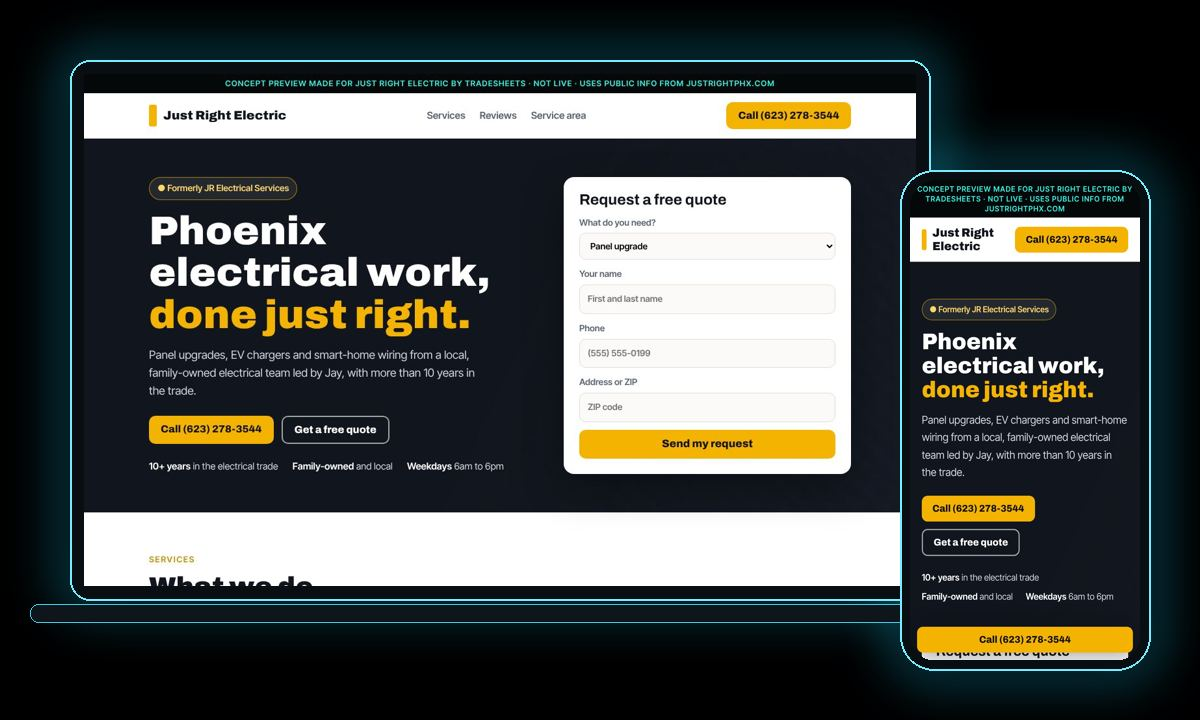
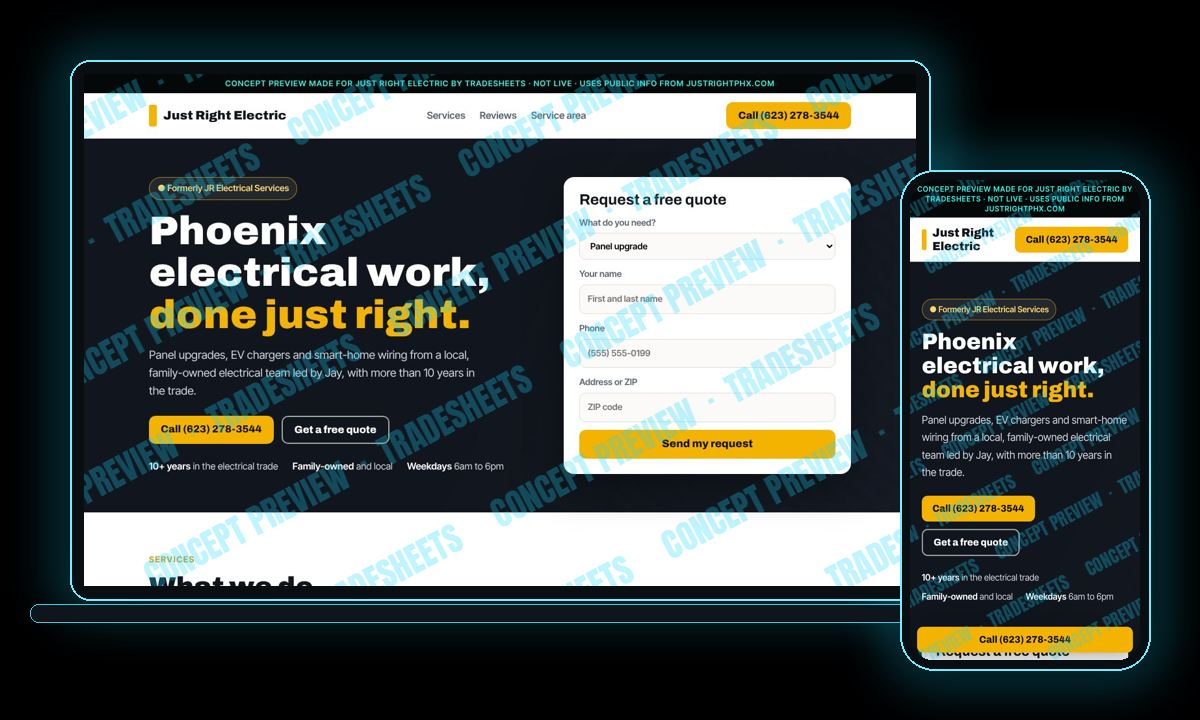
TradeSheets web: watermark previews, no downloads, keep preview sites out of the public repo
Claude-Session: https://claude.ai/code/session_01SsUek2LVS4AqK9q8U6FWSe

diff --git a/business/scripts/render_email.py b/business/scripts/render_email.py
@@ -89,7 +89,7 @@ def render(slug, to_override=None, note=None):
     greeting = p.get("owner_first") or f"{company} team"
     yes = mailto(f"YES - make my site live ({company})")
     no = mailto(f"NO - not interested ({company})")
-    attach = next(x.name for x in d.glob("*-homepage-concept.jpg"))
+    attach = ""
     noun = TRADE[p["trade"]]["noun"]
     subject = f"I built {company} a new website (preview inside)"
     banner = f'<tr><td style="background:#0b3a46;color:#bff3ff;font-size:13px;padding:10px 24px;">{e(note)}</td></tr>' if note else ""
@@ -106,12 +106,11 @@ def render(slug, to_override=None, note=None):
 <tr><td style="padding:14px 22px;">{demo_block(p)}</td></tr>
 <tr><td style="padding:6px 22px 4px;color:#8fb5c2;font-size:13px;text-align:center;">&#128247; And here's how it looks on a laptop and a phone:</td></tr>
 <tr><td style="padding:6px 22px 8px;"><a href="{e(yes)}"><img src="{RAW}/webdev/previews/{slug}/email.jpg" width="556" alt="{e(company)} new website on laptop and phone" style="display:block;width:100%;max-width:556px;height:auto;border:0;border-radius:12px;"></a></td></tr>
-<tr><td style="padding:4px 28px 0;color:#8fb5c2;font-size:13px;text-align:center;">&#128206; The full page is attached: <span style="color:{CYAN};">{e(attach)}</span></td></tr>
 <tr><td style="padding:22px 28px 6px;color:#e6f7fb;font-size:15px;line-height:24px;">
 <table role="presentation" width="100%" cellpadding="0" cellspacing="0">
-<tr><td style="padding:5px 0;"><span style="color:{CYAN};">&#9654;</span>&nbsp; A call button pinned to every phone screen</td></tr>
-<tr><td style="padding:5px 0;"><span style="color:{CYAN};">&#9654;</span>&nbsp; A quote form that lands straight in your inbox</td></tr>
-<tr><td style="padding:5px 0;"><span style="color:{CYAN};">&#9654;</span>&nbsp; Set up for local Google searches like "{noun} near me" in {e(p["city"])}</td></tr>
+<tr><td style="padding:5px 0;color:#e6f7fb;font-size:15px;line-height:24px;font-family:Arial,Helvetica,sans-serif;"><span style="color:{CYAN};">&#9654;</span>&nbsp; A call button pinned to every phone screen</td></tr>
+<tr><td style="padding:5px 0;color:#e6f7fb;font-size:15px;line-height:24px;font-family:Arial,Helvetica,sans-serif;"><span style="color:{CYAN};">&#9654;</span>&nbsp; A quote form that lands straight in your inbox</td></tr>
+<tr><td style="padding:5px 0;color:#e6f7fb;font-size:15px;line-height:24px;font-family:Arial,Helvetica,sans-serif;"><span style="color:{CYAN};">&#9654;</span>&nbsp; Set up for local Google searches like "{noun} near me" in {e(p["city"])}</td></tr>
 </table></td></tr>
 <tr><td style="padding:16px 22px;">
 <table role="presentation" width="100%" cellpadding="0" cellspacing="0" style="background:#03171d;border:1px solid {CYAN};border-radius:14px;">
@@ -126,7 +125,7 @@ def render(slug, to_override=None, note=None):
 </td></tr></table></td></tr>
 <tr><td style="padding:10px 28px 24px;color:#e6f7fb;font-size:15px;line-height:24px;">
 <p style="margin:0 0 12px;">Viktor Ilic<br><span style="color:{CYAN};">TradeSheets</span> &middot; websites for the trades</p>
-<p style="margin:0;font-size:14px;color:#9fc3cd;"><b style="color:#e6f7fb;">P.S.</b> The design is yours to keep either way. If someone else handles your website, feel free to forward this to them.</p>
+<p style="margin:0;font-size:14px;color:#9fc3cd;"><b style="color:#e6f7fb;">P.S.</b> I only take 5 founding clients at $299. Reply YES today and one of them is yours.</p>
 </td></tr>
 <tr><td style="padding:14px 28px;background:#05090b;color:#5f7d86;font-size:12px;line-height:18px;">TradeSheets &middot; {POSTAL}<br>You're getting this because {e(company)} lists this address on its website. Tap "No thanks" or reply "no" and you'll never hear from me again.</td></tr>
 </table></td></tr></table>"""
@@ -134,7 +133,7 @@ def render(slug, to_override=None, note=None):
 
 {p["personalization"]}
 
-So instead of a sales pitch, I built {company} a new homepage. The full page is attached ({attach}).
+So instead of a sales pitch, I built {company} a new homepage. Open this email in HTML view (most email apps do this automatically) to see it.
 
 What's in it:
 - A call button pinned to every phone screen
@@ -148,13 +147,13 @@ Reply YES and I'll make it live. Reply NO and I won't email again.
 Viktor Ilic
 TradeSheets, websites for the trades
 
-P.S. The design is yours to keep either way.
+P.S. I only take 5 founding clients at $299. Reply YES today and one of them is yours.
 
 TradeSheets, {POSTAL}
 You're getting this because {company} lists this address on its website."""
     (d / "email.html").write_text(body)
     (d / "email.txt").write_text(text)
-    (d / "email.json").write_text(json.dumps({"to": to_override or p["email"], "subject": subject, "attachment": attach}, indent=1))
+    (d / "email.json").write_text(json.dumps({"to": to_override or p["email"], "subject": subject}, indent=1))
     print(slug, "->", to_override or p["email"], "|", subject, "|", len(body), "chars")
 
 

diff --git a/business/scripts/build_preview.py b/business/scripts/build_preview.py
@@ -142,6 +142,25 @@ footer {{ background: #0a0d12; color: #9aa6b6; font-size: .86rem; padding-block:
 </body></html>"""
 
 
+def watermark(im, size):
+    """Tile a diagonal CONCEPT PREVIEW mark across a screenshot so it can't be reused as a finished design."""
+    from PIL import Image, ImageDraw, ImageFont
+    try:
+        font = ImageFont.truetype(str(FONTS / "Anton-Regular.ttf"), size)
+    except OSError:
+        font = ImageFont.load_default()
+    w, h = im.size
+    layer = Image.new("RGBA", (w * 2, h * 2), (0, 0, 0, 0))
+    d = ImageDraw.Draw(layer)
+    text = "CONCEPT PREVIEW  ·  TRADESHEETS"
+    step_y = int(size * 3.2)
+    for row, y in enumerate(range(0, h * 2, step_y)):
+        d.text(((row % 2) * size * 4 - size * 6, y), (text + "     ") * 6, font=font, fill=(24, 214, 255, 70))
+    layer = layer.rotate(28, resample=Image.BICUBIC)
+    layer = layer.crop((w // 2, h // 2, w // 2 + w, h // 2 + h))
+    return Image.alpha_composite(im.convert("RGBA"), layer).convert("RGB")
+
+
 def neon_mockup(desk, mob, out):
     from PIL import Image, ImageDraw, ImageFilter
     W, H = 1200, 720
@@ -155,11 +174,11 @@ def neon_mockup(desk, mob, out):
     bg = Image.blend(bg, glow.filter(ImageFilter.GaussianBlur(22)), 0.85)
     d = ImageDraw.Draw(bg)
     d.rounded_rectangle([lx, ly, lx + lw, ly + lh], 20, fill=(8, 14, 18), outline=(120, 236, 255), width=2)
-    scr = Image.open(desk).convert("RGB").resize((lw - 28, lh - 28))
+    scr = watermark(Image.open(desk).convert("RGB").resize((lw - 28, lh - 28)), 34)
     bg.paste(scr, (lx + 14, ly + 14))
     d.rounded_rectangle([lx - 40, ly + lh + 4, lx + lw + 40, ly + lh + 22], 8, fill=(14, 22, 28), outline=(60, 200, 230), width=1)
     d.rounded_rectangle([px, py, px + pw, py + ph], 34, fill=(8, 14, 18), outline=(120, 236, 255), width=2)
-    m = Image.open(mob).convert("RGB").resize((pw - 20, ph - 20))
+    m = watermark(Image.open(mob).convert("RGB").resize((pw - 20, ph - 20)), 18)
     mask = Image.new("L", m.size, 0)
     ImageDraw.Draw(mask).rounded_rectangle([0, 0, m.size[0], m.size[1]], 26, fill=255)
     bg.paste(m, (px + 10, py + 10), mask)
@@ -179,8 +198,6 @@ const {{ chromium }} = require('playwright');
   const d = await b.newPage({{ viewport: {{ width: 1280, height: 800 }} }});
   await d.goto(url, {{ waitUntil: 'networkidle', timeout: 60000 }}).catch(() => {{}}); await d.waitForTimeout(800);
   await d.screenshot({{ path: '{out}/desktop.jpg', type: 'jpeg', quality: 80 }});
-  await d.emulateMedia({{ media: 'screen' }});
-  await d.pdf({{ path: '{out}/concept.pdf', width: '1280px', height: '2400px', printBackground: true, pageRanges: '1' }});
   const m = await b.newPage({{ viewport: {{ width: 390, height: 780 }}, deviceScaleFactor: 2 }});
   await m.goto(url, {{ waitUntil: 'networkidle', timeout: 60000 }}).catch(() => {{}}); await m.waitForTimeout(800);
   await m.screenshot({{ path: '{out}/mobile.jpg', type: 'jpeg', quality: 80 }});
